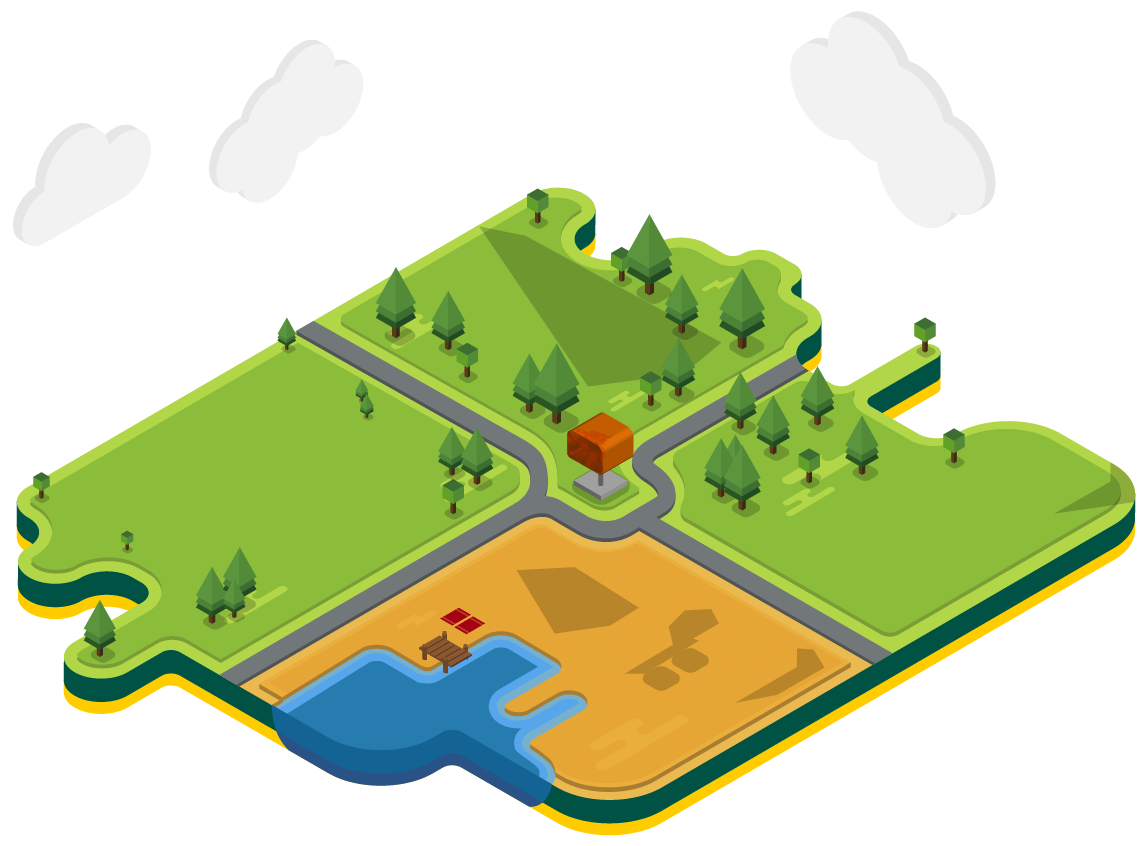
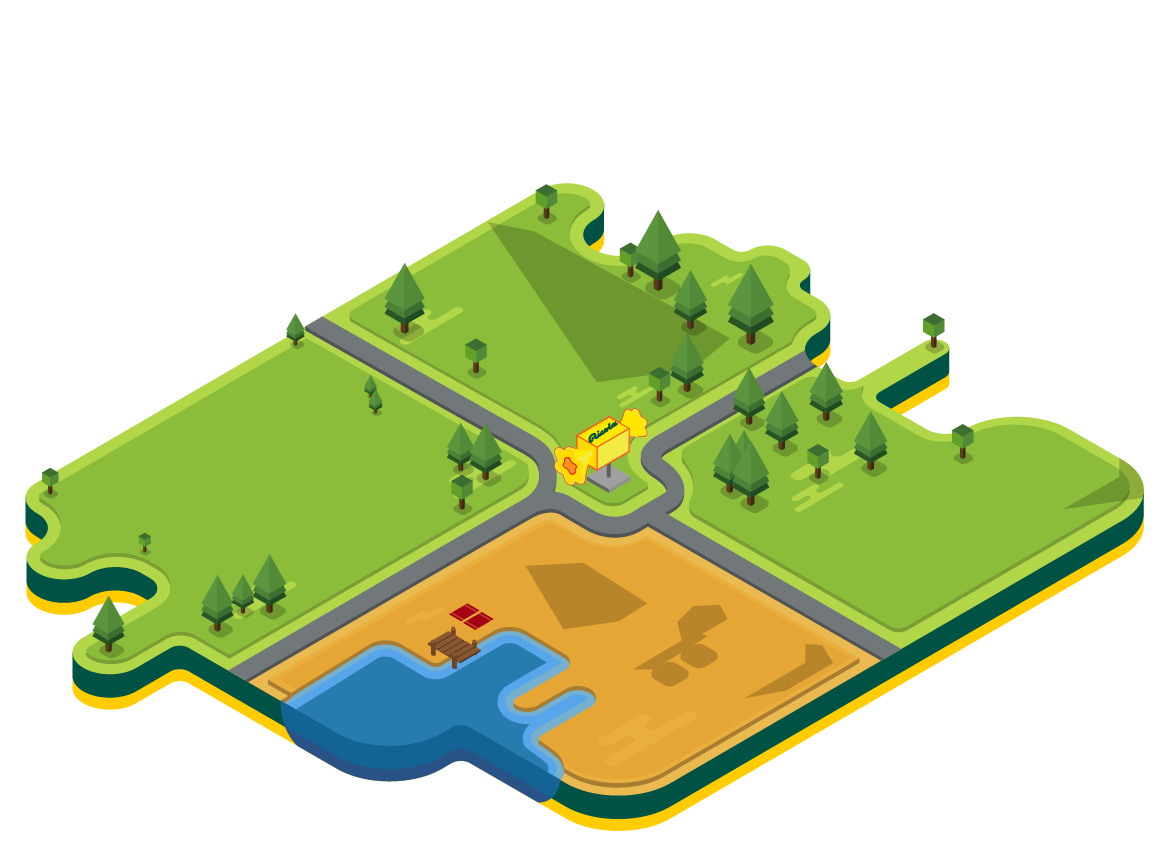
Re-added cloud elements

diff --git a/src/components/hero.js b/src/components/hero.js
@@ -1,6 +1,9 @@
 import React from 'react';
 import './landing.css';
 import Ground from './ground.png';
+import RightCloud from './cloud3.png';
+import LeftCloudBig from './cloud2.png';
+import LeftCloudSmall from './cloud1.png';
 
 
 export default function Hero() {
@@ -10,6 +13,9 @@ export default function Hero() {
                 <div className="ground">
                     <img src={Ground} alt="Ricola world ground"/>
                 </div>
+                <img src={RightCloud} alt="A cloud in the sky" className="RightCloud"/>
+                <img src={LeftCloudBig} alt="A cloud in the sky" className="LeftCloudBig"/>
+                <img src= {LeftCloudSmall} alt="A cloud in the sky" className="LeftCloudSmall"/>
             </div>
         
             

diff --git a/src/components/landing.css b/src/components/landing.css
@@ -62,7 +62,7 @@
 }
 
 .ground {
-    grid-row: 2/3;
+    grid-row: 1/2;
     grid-column: 3/7;
 }
 .ground img{
@@ -72,4 +72,28 @@
 .wrapper {
     background: radial-gradient(circle, rgba(255,255,255,1) 0%, rgba(255,204,0,1) 50%);
     clip-path: polygon(1% 1%, 99% 0, 98% 99%, 2% 99%);
+}
+
+.LeftCloudSmall{
+    grid-column: 2/4;
+    grid-row: 1/2;
+    justify-self: center;
+    transform: translateY(50%);
+    width:40%;
+}
+
+.LeftCloudBig{
+    grid-column: 3/5;
+    grid-row: 1/2;
+    justify-self: center;
+    transform: translateY(20%);
+    width:40%;
+}
+
+.RightCloud{
+    grid-column: 5/7;
+    grid-row: 1/2;
+    justify-self: right;
+    transform: translateY(20%);
+    width:40%;
 }
